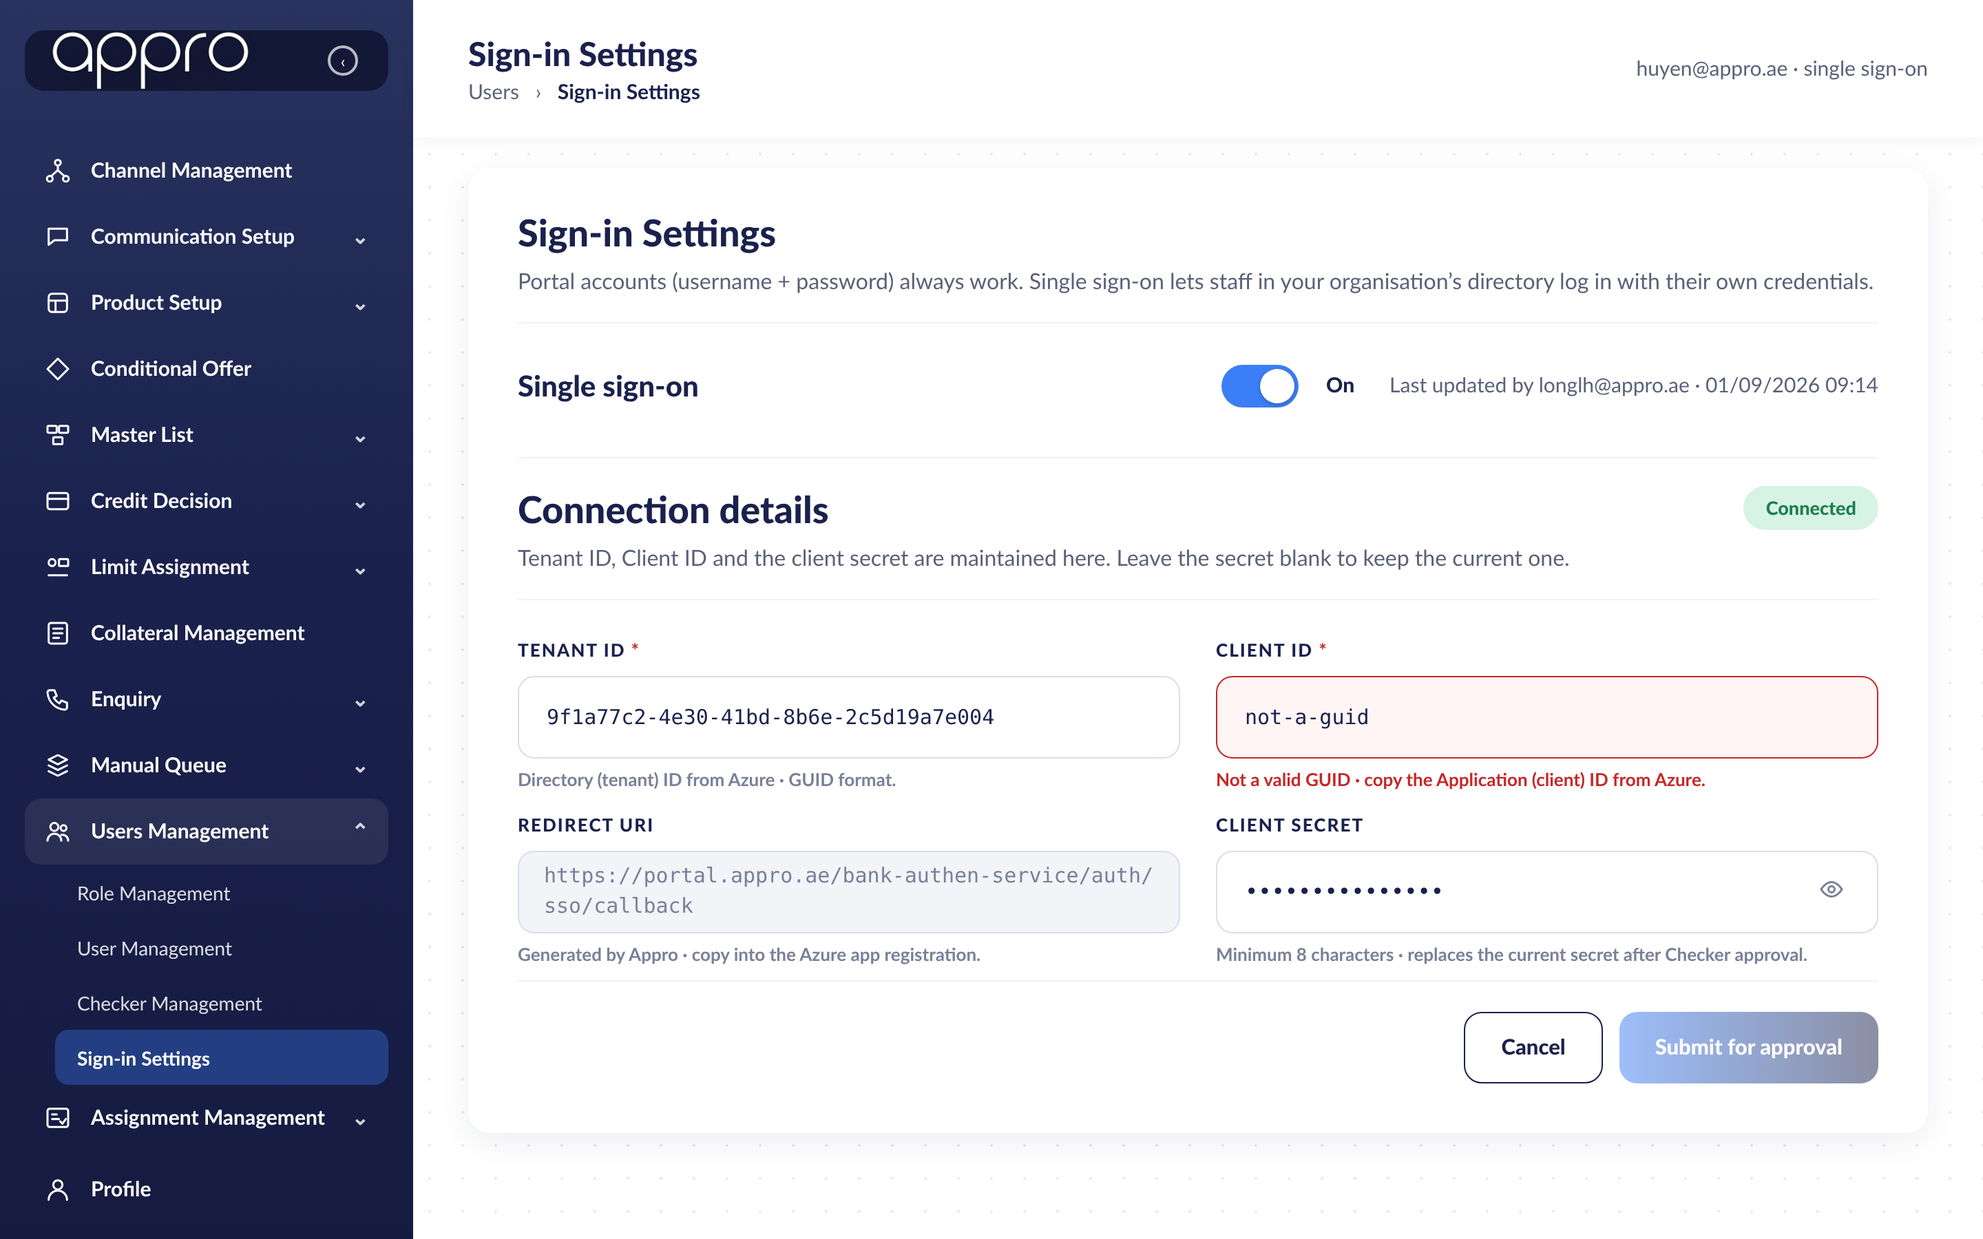
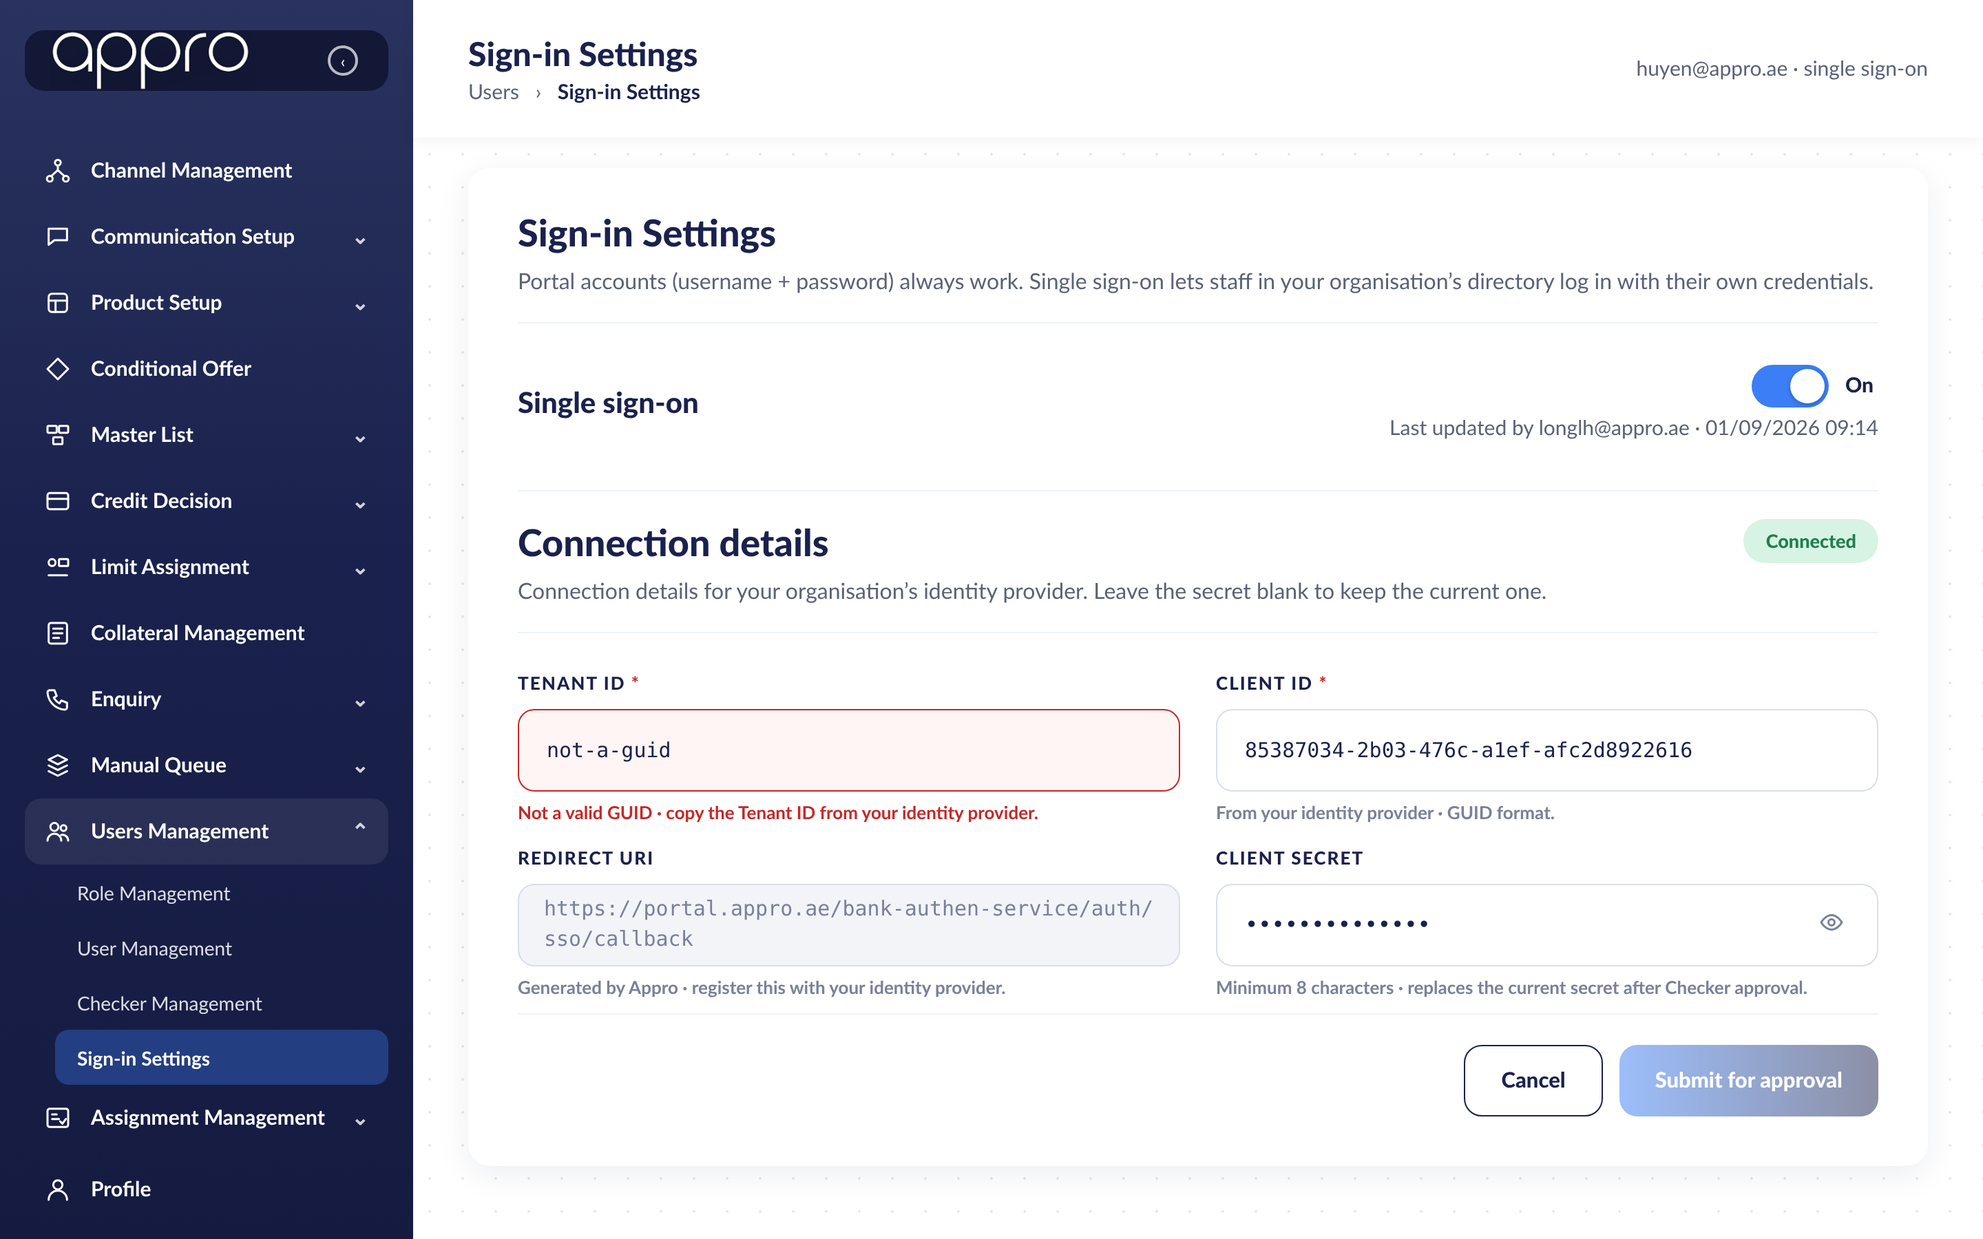
Sign-in Settings: vendor-neutral wording for the connection details
The screen named the directory vendor in six places, which would read wrong
for a bank on any other provider and would have to change again if one
switched. All six now say "your identity provider". The connection intro no
longer lists the fields rendered directly beneath it.

Claude-Session: https://claude.ai/code/session_01WLahjovvzGmaLqPdFzgAEY

diff --git a/sso-prototype/index.html b/sso-prototype/index.html
@@ -297,7 +297,7 @@ h1{margin:0;text-align:center;font-size:clamp(22px,4vw,30px);font-weight:800;tex
 
 <!-- demo panel -->
 <aside class="demo" id="demo" aria-label="Prototype controls">
-  <div class="dh"><span>Prototype controls · build 19 · 20 Sep · IEM031</span><button type="button" id="demoToggle" aria-label="Expand">+ test accounts</button></div>
+  <div class="dh"><span>Prototype controls · build 20 · 21 Sep · generic IdP wording</span><button type="button" id="demoToggle" aria-label="Expand">+ test accounts</button></div>
   <div class="db hidden" id="demoBody"></div>
 </aside>
 
@@ -495,7 +495,7 @@ function renderConn(){
   const CP=id=>`<button class="copy" data-copy="${id}" aria-label="Copy"><svg width="14" height="14" viewBox="0 0 24 24" fill="none" stroke="#1a214d" stroke-width="2" stroke-linecap="round"><rect x="9" y="9" width="11" height="11" rx="2"/><path d="M5 15V5a2 2 0 0 1 2-2h10"/></svg></button>`;
   const secretView = S.secret ? '•••••••••••••••••••• <span class="muted small" style="font-weight:600">set '+S.secret.on+' by '+S.secret.by+'</span>' : pill('p-lav','Not set');
   if(mode==='view'){
-    p.innerHTML=`<div class="ph"><div><h3>Connection details</h3><div class="desc muted">Values from your organisation’s Azure app registration. Tenant ID, Client ID and the client secret are maintained here; the Redirect URI is generated by Appro — copy it into Azure.</div></div>
+    p.innerHTML=`<div class="ph"><div><h3>Connection details</h3><div class="desc muted">Connection details for your organisation’s identity provider. The Redirect URI is generated by Appro — register it with your provider.</div></div>
       <div style="display:flex;gap:12px;align-items:center">${status}<button class="btn" id="connEdit" ${canEdit?'':'disabled'}><svg width="16" height="16" viewBox="0 0 24 24" fill="none" stroke="#fff" stroke-width="2.2" stroke-linecap="round" stroke-linejoin="round"><path d="M12 20h9"/><path d="M16.5 3.5a2.1 2.1 0 0 1 3 3L7 19l-4 1 1-4z"/></svg> Edit</button></div></div>
       <div class="kvgrid">
         <div><div class="lbl">Tenant ID</div><div class="val"><code id="tenant">${V.tenant}</code>${CP('tenant')}</div></div>
@@ -505,11 +505,11 @@ function renderConn(){
       </div>`;
     const e=$('#connEdit'); if(e) e.onclick=()=>{S.connMode='edit';renderConn()};
   } else {
-    p.innerHTML=`<div class="ph"><div><h3>Connection details</h3><div class="desc muted">Tenant ID, Client ID and the client secret are maintained here. Leave the secret blank to keep the current one.</div></div>${status}</div>
+    p.innerHTML=`<div class="ph"><div><h3>Connection details</h3><div class="desc muted">Connection details for your organisation’s identity provider. Leave the secret blank to keep the current one.</div></div>${status}</div>
       <div class="form">
-        <div class="f"><label>Tenant ID <b>*</b></label><div class="in" id="wrapTenant"><input id="tenantInput" class="txt" type="text" value="${V.tenant}" spellcheck="false" aria-label="Tenant ID"></div><div class="help" id="helpTenant">Directory (tenant) ID from Azure · GUID format.</div></div>
-        <div class="f"><label>Client ID <b>*</b></label><div class="in" id="wrapClient"><input id="clientInput" class="txt" type="text" value="${V.client}" spellcheck="false" aria-label="Client ID"></div><div class="help" id="helpClient">Application (client) ID from Azure · GUID format.</div></div>
-        <div class="f"><label>Redirect URI</label><div class="in ro">${V.redirect}</div><div class="help">Generated by Appro · copy into the Azure app registration.</div></div>
+        <div class="f"><label>Tenant ID <b>*</b></label><div class="in" id="wrapTenant"><input id="tenantInput" class="txt" type="text" value="${V.tenant}" spellcheck="false" aria-label="Tenant ID"></div><div class="help" id="helpTenant">From your identity provider · GUID format.</div></div>
+        <div class="f"><label>Client ID <b>*</b></label><div class="in" id="wrapClient"><input id="clientInput" class="txt" type="text" value="${V.client}" spellcheck="false" aria-label="Client ID"></div><div class="help" id="helpClient">From your identity provider · GUID format.</div></div>
+        <div class="f"><label>Redirect URI</label><div class="in ro">${V.redirect}</div><div class="help">Generated by Appro · register this with your identity provider.</div></div>
         <div class="f"><label>Client secret</label><div class="in"><input id="secretInput" type="password" placeholder="Leave blank to keep the current secret" autocomplete="new-password" aria-label="Client secret"><button type="button" class="eye" id="secretEye" aria-label="Show"><svg width="18" height="18" viewBox="0 0 24 24" fill="none" stroke="#7a8099" stroke-width="2" stroke-linecap="round"><path d="M2 12s4-7 10-7 10 7 10 7-4 7-10 7S2 12 2 12z"/><circle cx="12" cy="12" r="3"/></svg></button></div><div class="help">Minimum 8 characters · replaces the current secret after Checker approval.</div></div>
       </div>
       <div class="actions"><button class="btn ghost" id="connCancel">Cancel</button><button class="btn" id="connSubmit" disabled>Submit for approval</button></div>`;
@@ -520,8 +520,8 @@ function renderConn(){
       const tOk=GUID.test(tv), cOk=GUID.test(cv);
       $('#wrapTenant').classList.toggle('err',tv!==''&&!tOk);
       $('#wrapClient').classList.toggle('err',cv!==''&&!cOk);
-      $('#helpTenant').textContent = tv!==''&&!tOk ? 'Not a valid GUID · copy the Directory (tenant) ID from Azure.' : 'Directory (tenant) ID from Azure · GUID format.';
-      $('#helpClient').textContent = cv!==''&&!cOk ? 'Not a valid GUID · copy the Application (client) ID from Azure.' : 'Application (client) ID from Azure · GUID format.';
+      $('#helpTenant').textContent = tv!==''&&!tOk ? 'Not a valid GUID · copy the Tenant ID from your identity provider.' : 'From your identity provider · GUID format.';
+      $('#helpClient').textContent = cv!==''&&!cOk ? 'Not a valid GUID · copy the Client ID from your identity provider.' : 'From your identity provider · GUID format.';
       const changed = tv!==V.tenant || cv!==V.client || sv.length>0;
       const valid = tOk && cOk && (sv.length===0 || sv.length>=8);
       b.disabled = !(changed && valid);

diff --git a/sso-prototype/phase2/index.html b/sso-prototype/phase2/index.html
@@ -297,7 +297,7 @@ h1{margin:0;text-align:center;font-size:clamp(22px,4vw,30px);font-weight:800;tex
 
 <!-- demo panel -->
 <aside class="demo" id="demo" aria-label="Prototype controls">
-  <div class="dh"><span>Prototype controls · build 19 · 20 Sep · IEM031</span><button type="button" id="demoToggle" aria-label="Expand">+ test accounts</button></div>
+  <div class="dh"><span>Prototype controls · build 20 · 21 Sep · generic IdP wording</span><button type="button" id="demoToggle" aria-label="Expand">+ test accounts</button></div>
   <div class="db hidden" id="demoBody"></div>
 </aside>
 
@@ -495,7 +495,7 @@ function renderConn(){
   const CP=id=>`<button class="copy" data-copy="${id}" aria-label="Copy"><svg width="14" height="14" viewBox="0 0 24 24" fill="none" stroke="#1a214d" stroke-width="2" stroke-linecap="round"><rect x="9" y="9" width="11" height="11" rx="2"/><path d="M5 15V5a2 2 0 0 1 2-2h10"/></svg></button>`;
   const secretView = S.secret ? '•••••••••••••••••••• <span class="muted small" style="font-weight:600">set '+S.secret.on+' by '+S.secret.by+'</span>' : pill('p-lav','Not set');
   if(mode==='view'){
-    p.innerHTML=`<div class="ph"><div><h3>Connection details</h3><div class="desc muted">Values from your organisation’s Azure app registration. Tenant ID, Client ID and the client secret are maintained here; the Redirect URI is generated by Appro — copy it into Azure.</div></div>
+    p.innerHTML=`<div class="ph"><div><h3>Connection details</h3><div class="desc muted">Connection details for your organisation’s identity provider. The Redirect URI is generated by Appro — register it with your provider.</div></div>
       <div style="display:flex;gap:12px;align-items:center">${status}<button class="btn" id="connEdit" ${canEdit?'':'disabled'}><svg width="16" height="16" viewBox="0 0 24 24" fill="none" stroke="#fff" stroke-width="2.2" stroke-linecap="round" stroke-linejoin="round"><path d="M12 20h9"/><path d="M16.5 3.5a2.1 2.1 0 0 1 3 3L7 19l-4 1 1-4z"/></svg> Edit</button></div></div>
       <div class="kvgrid">
         <div><div class="lbl">Tenant ID</div><div class="val"><code id="tenant">${V.tenant}</code>${CP('tenant')}</div></div>
@@ -505,11 +505,11 @@ function renderConn(){
       </div>`;
     const e=$('#connEdit'); if(e) e.onclick=()=>{S.connMode='edit';renderConn()};
   } else {
-    p.innerHTML=`<div class="ph"><div><h3>Connection details</h3><div class="desc muted">Tenant ID, Client ID and the client secret are maintained here. Leave the secret blank to keep the current one.</div></div>${status}</div>
+    p.innerHTML=`<div class="ph"><div><h3>Connection details</h3><div class="desc muted">Connection details for your organisation’s identity provider. Leave the secret blank to keep the current one.</div></div>${status}</div>
       <div class="form">
-        <div class="f"><label>Tenant ID <b>*</b></label><div class="in" id="wrapTenant"><input id="tenantInput" class="txt" type="text" value="${V.tenant}" spellcheck="false" aria-label="Tenant ID"></div><div class="help" id="helpTenant">Directory (tenant) ID from Azure · GUID format.</div></div>
-        <div class="f"><label>Client ID <b>*</b></label><div class="in" id="wrapClient"><input id="clientInput" class="txt" type="text" value="${V.client}" spellcheck="false" aria-label="Client ID"></div><div class="help" id="helpClient">Application (client) ID from Azure · GUID format.</div></div>
-        <div class="f"><label>Redirect URI</label><div class="in ro">${V.redirect}</div><div class="help">Generated by Appro · copy into the Azure app registration.</div></div>
+        <div class="f"><label>Tenant ID <b>*</b></label><div class="in" id="wrapTenant"><input id="tenantInput" class="txt" type="text" value="${V.tenant}" spellcheck="false" aria-label="Tenant ID"></div><div class="help" id="helpTenant">From your identity provider · GUID format.</div></div>
+        <div class="f"><label>Client ID <b>*</b></label><div class="in" id="wrapClient"><input id="clientInput" class="txt" type="text" value="${V.client}" spellcheck="false" aria-label="Client ID"></div><div class="help" id="helpClient">From your identity provider · GUID format.</div></div>
+        <div class="f"><label>Redirect URI</label><div class="in ro">${V.redirect}</div><div class="help">Generated by Appro · register this with your identity provider.</div></div>
         <div class="f"><label>Client secret</label><div class="in"><input id="secretInput" type="password" placeholder="Leave blank to keep the current secret" autocomplete="new-password" aria-label="Client secret"><button type="button" class="eye" id="secretEye" aria-label="Show"><svg width="18" height="18" viewBox="0 0 24 24" fill="none" stroke="#7a8099" stroke-width="2" stroke-linecap="round"><path d="M2 12s4-7 10-7 10 7 10 7-4 7-10 7S2 12 2 12z"/><circle cx="12" cy="12" r="3"/></svg></button></div><div class="help">Minimum 8 characters · replaces the current secret after Checker approval.</div></div>
       </div>
       <div class="actions"><button class="btn ghost" id="connCancel">Cancel</button><button class="btn" id="connSubmit" disabled>Submit for approval</button></div>`;
@@ -520,8 +520,8 @@ function renderConn(){
       const tOk=GUID.test(tv), cOk=GUID.test(cv);
       $('#wrapTenant').classList.toggle('err',tv!==''&&!tOk);
       $('#wrapClient').classList.toggle('err',cv!==''&&!cOk);
-      $('#helpTenant').textContent = tv!==''&&!tOk ? 'Not a valid GUID · copy the Directory (tenant) ID from Azure.' : 'Directory (tenant) ID from Azure · GUID format.';
-      $('#helpClient').textContent = cv!==''&&!cOk ? 'Not a valid GUID · copy the Application (client) ID from Azure.' : 'Application (client) ID from Azure · GUID format.';
+      $('#helpTenant').textContent = tv!==''&&!tOk ? 'Not a valid GUID · copy the Tenant ID from your identity provider.' : 'From your identity provider · GUID format.';
+      $('#helpClient').textContent = cv!==''&&!cOk ? 'Not a valid GUID · copy the Client ID from your identity provider.' : 'From your identity provider · GUID format.';
       const changed = tv!==V.tenant || cv!==V.client || sv.length>0;
       const valid = tOk && cOk && (sv.length===0 || sv.length>=8);
       b.disabled = !(changed && valid);

diff --git a/sso-prototype/v15/index.html b/sso-prototype/v15/index.html
@@ -297,7 +297,7 @@ h1{margin:0;text-align:center;font-size:clamp(22px,4vw,30px);font-weight:800;tex
 
 <!-- demo panel -->
 <aside class="demo" id="demo" aria-label="Prototype controls">
-  <div class="dh"><span>Prototype controls · build 19 · 20 Sep · IEM031</span><button type="button" id="demoToggle" aria-label="Expand">+ test accounts</button></div>
+  <div class="dh"><span>Prototype controls · build 20 · 21 Sep · generic IdP wording</span><button type="button" id="demoToggle" aria-label="Expand">+ test accounts</button></div>
   <div class="db hidden" id="demoBody"></div>
 </aside>
 
@@ -495,7 +495,7 @@ function renderConn(){
   const CP=id=>`<button class="copy" data-copy="${id}" aria-label="Copy"><svg width="14" height="14" viewBox="0 0 24 24" fill="none" stroke="#1a214d" stroke-width="2" stroke-linecap="round"><rect x="9" y="9" width="11" height="11" rx="2"/><path d="M5 15V5a2 2 0 0 1 2-2h10"/></svg></button>`;
   const secretView = S.secret ? '•••••••••••••••••••• <span class="muted small" style="font-weight:600">set '+S.secret.on+' by '+S.secret.by+'</span>' : pill('p-lav','Not set');
   if(mode==='view'){
-    p.innerHTML=`<div class="ph"><div><h3>Connection details</h3><div class="desc muted">Values from your organisation’s Azure app registration. Tenant ID, Client ID and the client secret are maintained here; the Redirect URI is generated by Appro — copy it into Azure.</div></div>
+    p.innerHTML=`<div class="ph"><div><h3>Connection details</h3><div class="desc muted">Connection details for your organisation’s identity provider. The Redirect URI is generated by Appro — register it with your provider.</div></div>
       <div style="display:flex;gap:12px;align-items:center">${status}<button class="btn" id="connEdit" ${canEdit?'':'disabled'}><svg width="16" height="16" viewBox="0 0 24 24" fill="none" stroke="#fff" stroke-width="2.2" stroke-linecap="round" stroke-linejoin="round"><path d="M12 20h9"/><path d="M16.5 3.5a2.1 2.1 0 0 1 3 3L7 19l-4 1 1-4z"/></svg> Edit</button></div></div>
       <div class="kvgrid">
         <div><div class="lbl">Tenant ID</div><div class="val"><code id="tenant">${V.tenant}</code>${CP('tenant')}</div></div>
@@ -505,11 +505,11 @@ function renderConn(){
       </div>`;
     const e=$('#connEdit'); if(e) e.onclick=()=>{S.connMode='edit';renderConn()};
   } else {
-    p.innerHTML=`<div class="ph"><div><h3>Connection details</h3><div class="desc muted">Tenant ID, Client ID and the client secret are maintained here. Leave the secret blank to keep the current one.</div></div>${status}</div>
+    p.innerHTML=`<div class="ph"><div><h3>Connection details</h3><div class="desc muted">Connection details for your organisation’s identity provider. Leave the secret blank to keep the current one.</div></div>${status}</div>
       <div class="form">
-        <div class="f"><label>Tenant ID <b>*</b></label><div class="in" id="wrapTenant"><input id="tenantInput" class="txt" type="text" value="${V.tenant}" spellcheck="false" aria-label="Tenant ID"></div><div class="help" id="helpTenant">Directory (tenant) ID from Azure · GUID format.</div></div>
-        <div class="f"><label>Client ID <b>*</b></label><div class="in" id="wrapClient"><input id="clientInput" class="txt" type="text" value="${V.client}" spellcheck="false" aria-label="Client ID"></div><div class="help" id="helpClient">Application (client) ID from Azure · GUID format.</div></div>
-        <div class="f"><label>Redirect URI</label><div class="in ro">${V.redirect}</div><div class="help">Generated by Appro · copy into the Azure app registration.</div></div>
+        <div class="f"><label>Tenant ID <b>*</b></label><div class="in" id="wrapTenant"><input id="tenantInput" class="txt" type="text" value="${V.tenant}" spellcheck="false" aria-label="Tenant ID"></div><div class="help" id="helpTenant">From your identity provider · GUID format.</div></div>
+        <div class="f"><label>Client ID <b>*</b></label><div class="in" id="wrapClient"><input id="clientInput" class="txt" type="text" value="${V.client}" spellcheck="false" aria-label="Client ID"></div><div class="help" id="helpClient">From your identity provider · GUID format.</div></div>
+        <div class="f"><label>Redirect URI</label><div class="in ro">${V.redirect}</div><div class="help">Generated by Appro · register this with your identity provider.</div></div>
         <div class="f"><label>Client secret</label><div class="in"><input id="secretInput" type="password" placeholder="Leave blank to keep the current secret" autocomplete="new-password" aria-label="Client secret"><button type="button" class="eye" id="secretEye" aria-label="Show"><svg width="18" height="18" viewBox="0 0 24 24" fill="none" stroke="#7a8099" stroke-width="2" stroke-linecap="round"><path d="M2 12s4-7 10-7 10 7 10 7-4 7-10 7S2 12 2 12z"/><circle cx="12" cy="12" r="3"/></svg></button></div><div class="help">Minimum 8 characters · replaces the current secret after Checker approval.</div></div>
       </div>
       <div class="actions"><button class="btn ghost" id="connCancel">Cancel</button><button class="btn" id="connSubmit" disabled>Submit for approval</button></div>`;
@@ -520,8 +520,8 @@ function renderConn(){
       const tOk=GUID.test(tv), cOk=GUID.test(cv);
       $('#wrapTenant').classList.toggle('err',tv!==''&&!tOk);
       $('#wrapClient').classList.toggle('err',cv!==''&&!cOk);
-      $('#helpTenant').textContent = tv!==''&&!tOk ? 'Not a valid GUID · copy the Directory (tenant) ID from Azure.' : 'Directory (tenant) ID from Azure · GUID format.';
-      $('#helpClient').textContent = cv!==''&&!cOk ? 'Not a valid GUID · copy the Application (client) ID from Azure.' : 'Application (client) ID from Azure · GUID format.';
+      $('#helpTenant').textContent = tv!==''&&!tOk ? 'Not a valid GUID · copy the Tenant ID from your identity provider.' : 'From your identity provider · GUID format.';
+      $('#helpClient').textContent = cv!==''&&!cOk ? 'Not a valid GUID · copy the Client ID from your identity provider.' : 'From your identity provider · GUID format.';
       const changed = tv!==V.tenant || cv!==V.client || sv.length>0;
       const valid = tOk && cOk && (sv.length===0 || sv.length>=8);
       b.disabled = !(changed && valid);
